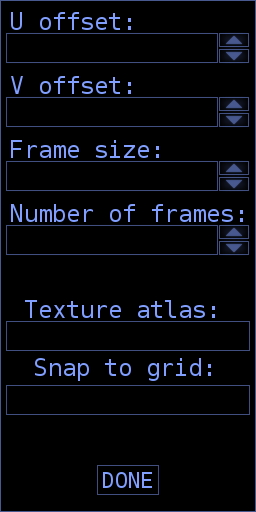
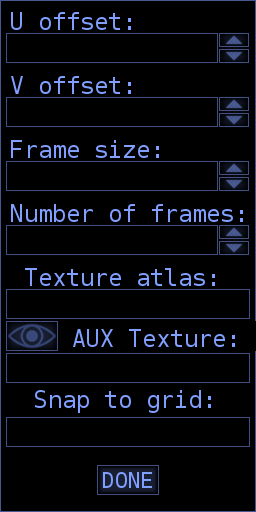
Some comments/docs, aux texture option for mrt

diff --git a/wfx.py b/wfx.py
@@ -15,6 +15,7 @@ class Wfx():
     def __init__(self,
                 num_emitters=1,
                 update_speed=60.0,
+                use_aux_texture=False,
                 physics_shader=None,
                 particle_shader=None,
                 camera=None,
@@ -26,6 +27,7 @@ class Wfx():
 
         Args:
             update_speed (float)    - how fast will the simulation run in FPS
+            use_aux_texture(bool)   - do the particles need to render to a second render target
             physics_shader(Shader)  - shader that will run the physic simulation
             particle_shader(Shader) - shader that will draw vertex as textures billbords
             camera(NodePath/Camera) - the default scene camera
@@ -35,10 +37,12 @@ class Wfx():
         """
         #setup
         self.num_emitters=num_emitters
+        self.use_aux_texture=int(use_aux_texture)
         #write the include for shaders
         with open('wfx_shaders/inc_config.glsl', 'w') as out_file:
             out_file.write('//WFX config, do not edit, it will be overriden anyway\n')
             out_file.write('#define WFX_NUM_EMITTERS '+str(num_emitters))
+            out_file.write('\n#define WFX_AUX_RENDER_TARGET '+str(self.use_aux_texture))
         self.update_speed=1.0/update_speed
         #the shader that will run the physic simulation
         self.physics_shader=Shader.load(Shader.SL_GLSL,'wfx_shaders/physics_v.glsl', 'wfx_shaders/physics_f.glsl')
@@ -72,14 +76,16 @@ class Wfx():
         self.pause=False
         self.ping_pong=None
         self.task=None
-        #update task
-        #taskMgr.add(self._update, 'wfx_update_tsk')
 
+    ###################
+    #Private functions:
+    ###################
     def _reload_shaders(self):
         #print '_reload_shaders',self.num_emitters
         with open('wfx_shaders/inc_config.glsl', 'w') as out_file:
             out_file.write('//WFX config, do not edit, it will be overriden anyway\n')
             out_file.write('#define WFX_NUM_EMITTERS '+str(self.num_emitters))
+            out_file.write('\n#define WFX_AUX_RENDER_TARGET '+str(self.use_aux_texture))
 
         physics_v=self.physics_shader.getFilename(Shader.ST_vertex)
         physics_f=self.physics_shader.getFilename(Shader.ST_fragment)
@@ -99,6 +105,54 @@ class Wfx():
         except AttributeError:
             pass
 
+    def _set_blend(self, node,  mode):
+        if mode=='dual':
+            node.setTransparency(TransparencyAttrib.MDual, 1)
+        elif mode =='add':
+            color_attrib = ColorBlendAttrib.make(ColorBlendAttrib.M_add, ColorBlendAttrib.O_incoming_alpha, ColorBlendAttrib.O_one )
+            node.setAttrib(color_attrib)
+            node.setBin("fixed", 0)
+            node.setDepthTest(True)
+            node.setDepthWrite(False)
+
+    def _make_points(self, num_points):
+        #print '_make_points', num_points
+        if num_points>1:
+            aformat = GeomVertexArrayFormat("vertex", 1, GeomEnums.NT_uint8, GeomEnums.C_other)
+            format = GeomVertexFormat.register_format(GeomVertexFormat(aformat))
+            vdata = GeomVertexData('abc', format, GeomEnums.UH_static)
+            vdata.set_num_rows(num_points)
+            geom = Geom(vdata)
+            p = GeomPoints(Geom.UH_static)
+            #p.add_vertex(0)
+            p.addNextVertices(num_points)
+            geom.add_primitive(p)
+            geom.set_bounds(OmniBoundingVolume())
+            geom_node = GeomNode('point')
+            geom_node.addGeom(geom)
+            point_node=render.attachNewNode(geom_node)
+        else:
+            point_node=render.attachNewNode('empty')
+        point_node.setRenderMode(RenderModeAttrib.MPoint, 1)
+        point_node.reparentTo(self.root)
+        return point_node
+
+    def _reset_window_size(self, window=None):
+        if window:
+            self.window=window
+        self.root.setShaderInput('screen_size', Vec2(self.window.getXSize(), self.window.getYSize()))
+
+    def _update(self, task):
+        dt=globalClock.getDt()
+        self.root.setShaderInput('camera_pos', base.camera.getPos(self.root))
+        if not self.pause:
+            self.ping_pong.update(dt)
+        self.root.setShaderInput('pos_tex', self.ping_pong.output)
+        return task.again
+
+    ###################
+    #Public functions:
+    ###################
     def load(self, *args, **kwargs):
         """
         Loads values needed to run the simulation.
@@ -153,6 +207,10 @@ class Wfx():
         elif needed_kwargs <= set(kwargs): #check if all the needed args are given
             #print kwargs['data']
             self.num_emitters=kwargs['data']['num_emitters']
+            if 'aux_texture' in kwargs:
+                self.use_aux_texture=1
+            else:
+                self.use_aux_texture=0
             self._reload_shaders() #make sure the inc is written!
             self.current_status=kwargs['data']['status']
             if 'forces' in kwargs['data']:
@@ -208,6 +266,8 @@ class Wfx():
             self.root.setShaderInput('props_tex', kwargs['props'])
             self.root.setShaderInput('index_offset', 0.0)
             self.root.setShaderInput('status',status)
+            if 'aux_texture' in kwargs:
+                self.root.setShaderInput('aux_texture', kwargs['aux_texture'])
             self.points_dual_blend.setShaderInput('index_offset', float(kwargs['data']['blend_index']))
 
 
@@ -221,50 +281,31 @@ class Wfx():
                 print 'arg:', arg
             print kwargs
 
-    def _set_blend(self, node,  mode):
-        if mode=='dual':
-            node.setTransparency(TransparencyAttrib.MDual, 1)
-        elif mode =='add':
-            color_attrib = ColorBlendAttrib.make(ColorBlendAttrib.M_add, ColorBlendAttrib.O_incoming_alpha, ColorBlendAttrib.O_one )
-            node.setAttrib(color_attrib)
-            node.setBin("fixed", 0)
-            node.setDepthTest(True)
-            node.setDepthWrite(False)
-
-    def _make_points(self, num_points):
-        #print '_make_points', num_points
-        if num_points>1:
-            aformat = GeomVertexArrayFormat("vertex", 1, GeomEnums.NT_uint8, GeomEnums.C_other)
-            format = GeomVertexFormat.register_format(GeomVertexFormat(aformat))
-            vdata = GeomVertexData('abc', format, GeomEnums.UH_static)
-            vdata.set_num_rows(num_points)
-            geom = Geom(vdata)
-            p = GeomPoints(Geom.UH_static)
-            #p.add_vertex(0)
-            p.addNextVertices(num_points)
-            geom.add_primitive(p)
-            geom.set_bounds(OmniBoundingVolume())
-            geom_node = GeomNode('point')
-            geom_node.addGeom(geom)
-            point_node=render.attachNewNode(geom_node)
-        else:
-            point_node=render.attachNewNode('empty')
-        point_node.setRenderMode(RenderModeAttrib.MPoint, 1)
-        point_node.reparentTo(self.root)
-        return point_node
-
     def start(self):
+        """
+        Starts the particle system, call this after calling load()
+        """
         self.root.show()
         if self.task is None:
             self.task=taskMgr.add(self._update, 'wfx_update_tsk')
 
     def set_pause(self):
+        """
+        Pauses the particle system without hiding anything, use this for 'time stop'
+        ..or just set self.pause to True
+        """
         self.pause = not self.pause
 
     def restart(self):
+        """
+        Restarts the whole system to the initial value (after load() was called)
+        """
         self.ping_pong.state=0
 
     def reset(self):
+        """
+        Resets the system, removes all values set by load()
+        """
         taskMgr.remove(self.task)
         self.points_dual_blend.removeNode()
         self.points_add_blend.removeNode()
@@ -272,24 +313,28 @@ class Wfx():
         self.ping_pong=None
 
     def cleanup(self):
+        """
+        Removes everything, call this when you now longer need the particle system
+        """
         self.reset()
         self.physics_shader=None
         self.particle_shader=None
         self.root=None
         self.window=None
 
-    def _reset_window_size(self, window=None):
-        if window:
-            self.window=window
-        self.root.setShaderInput('screen_size', Vec2(self.window.getXSize(), self.window.getYSize()))
-
     def set_global_force(self, force):
+        """
+        Sets a force affecting all particles, force should be vector in world space (list/tuple will also work)
+        """
         try:
             self.ping_pong.setShaderInput('global_force', Vec4(force[0], force[1], force[2], 0.0))
         except AttributeError:
             pass
 
     def set_emitter_force(self, emitter_id, force):
+        """
+        Sets a local force affecting all particles with a given emitter_id
+        """
         try:
             status=PTA_LVecBase4f()
             for i in range(self.num_emitters):
@@ -312,6 +357,9 @@ class Wfx():
             pass
 
     def set_emitter_active(self, emitter_id, active):
+        """
+        Turns on (active=1) or off (active=0) all the particles with a given emitter_id
+        """
         try:
             status=PTA_LVecBase4f()
             for i in range(self.num_emitters):
@@ -332,26 +380,40 @@ class Wfx():
             pass
 
     def set_emitter_on(self, emitter_id):
+        """
+        Turns on all the particles with a given emitter_id
+        """
         self.set_emitter_active(emitter_id, 1.0)
 
     def set_emitter_off(self, emitter_id):
+        """
+        Turns off all the particles with a given emitter_id
+        """
         self.set_emitter_active(emitter_id, 0.0)
 
     def set_emitter_node(self, emitter_id, node):
+        """
+        Links a node with a emitter_id.
+
+        When the node moves or rotates, then the origin of particles
+        with that emitter_id moves or rotates with it.
+        """
         self.ping_pong.emitters[emitter_id]=node
 
-    def _update(self, task):
-        dt=globalClock.getDt()
-        self.root.setShaderInput('camera_pos', base.camera.getPos(self.root))
-        if not self.pause:
-            self.ping_pong.update(dt)
-        self.root.setShaderInput('pos_tex', self.ping_pong.output)
-        return task.again
-
+    def on_window_resize(self):
+        """
+        Call this function each time the window changes its size!
+        """
+        self._reset_window_size()
 
 
 
 class BufferRotator():
+    """
+    This is a helper class that switches between 3 texture buffers,
+    where each buffer is in turn the output or one of the inputs.
+    You don't need to do anything with this class.
+    """
     def __init__(self, shader, tex0, tex1, shader_inputs={}, emitters=None, bits=32, update_speed=None):
         #upadate speed - how often is the who thing run
         if update_speed:
@@ -560,7 +622,6 @@ class BufferRotator():
         self.texC=None
         self.output=None
         self.emitters=None
-
 
     def update(self, dt):
         self.time+=dt

diff --git a/editor.py b/editor.py
@@ -2,6 +2,8 @@ from __future__ import print_function
 from panda3d.core import loadPrcFileData
 loadPrcFileData('', 'textures-power-2 None')
 loadPrcFileData('', 'win-size 1024 768')
+loadPrcFileData('', 'show-frame-rate-meter 1')
+loadPrcFileData('', 'sync-video 0')
 from panda3d.core import *
 from direct.showbase.DirectObject import DirectObject
 from direct.showbase import ShowBase
@@ -29,6 +31,11 @@ class Editor(DirectObject):
 
         #init the GUI sub system
         self.gui=GUI()
+
+        #put the frame metter at the bottom
+        self.fps_node=NodePath(base.frameRateMeter)
+        self.fps_node.wrtReparentTo(self.gui.bottom_right)
+        self.fps_node.setPos(0, 0, 20)
 
         #text for the help popups
         self.help_txt=["Particle Pool is the number of available particles, and it's also the size of the texture used internally. The value will be rounded to the nearest a power-of-two size.",
@@ -401,6 +408,33 @@ class Editor(DirectObject):
             return
         self.tex_preview_frame['frameTexture']=self.texture
 
+    def load_aux_tex_atlas(self, value=None):
+        if self.values['particle_left'][0]+self.values['particle_left'][1]<self.values['particle_pool']:
+            self.gui.popup("You can only change the texture atlas befor generating any particles!")
+            return
+        path=self.tex_entry_aux.get()
+        if path=='':
+            self.gui.popup("AUX Texture has been disabled.")
+            self.tex_preview_frame['frameTexture']=self.texture
+            self.aux_texture=None
+            return
+        try:
+            self.aux_texture=loader.loadTexture(path)
+            self.tex_preview_frame['frameTexture']=self.aux_texture
+            self.gui.popup("AUX Texture loaded! To disable it enter an empty string and press [Enter], use the eye button to toggle aux and color texture preview.\nThe Aux Texture can provide material information or data for post-processing, custom shaders are needed!")
+        except:
+            self.gui.popup("AUX Texture has been disabled, could not load texture: "+path)
+            self.tex_preview_frame['frameTexture']=self.texture
+            self.aux_texture=None
+            return
+
+    def preview_aux_texture(self):
+        if self.aux_texture:
+            if self.tex_preview_frame['frameTexture'] == self.aux_texture:
+                self.tex_preview_frame['frameTexture']=self.texture
+            else:
+                self.tex_preview_frame['frameTexture']=self.aux_texture
+
     def set_tex_select_snap(self, value=None):
         self.tex_select_frame.snap=self.exe(self.tex_entry_snap.get(), expect_float=True)
 
@@ -465,8 +499,9 @@ class Editor(DirectObject):
             self.tex_entry_v=self.gui.entry('1.0', (210, 32), (7,96), self.tex_frame, command=self.update_tex_select)
             self.tex_entry_size=self.gui.entry('0.0625', (210, 32), (7,160), self.tex_frame, command=self.update_tex_select)
             self.tex_entry_num=self.gui.entry('1.0', (210, 32), (7,224), self.tex_frame, command=self.update_tex_select)
-            self.tex_entry_path=self.gui.entry('tex/atlas1.png', (242, 32), (7,320), self.tex_frame, command=self.load_tex_atlas)
-            self.tex_entry_snap=self.gui.entry('1.0/16.0', (242, 32), (7,383), self.tex_frame, command=self.set_tex_select_snap)
+            self.tex_entry_path=self.gui.entry('tex/atlas1.png', (242, 32), (7,288), self.tex_frame, command=self.load_tex_atlas)
+            self.tex_entry_aux=self.gui.entry('', (242, 32), (7,352), self.tex_frame, command=self.load_aux_tex_atlas)
+            self.tex_entry_snap=self.gui.entry('1.0/16.0', (242, 32), (7,416), self.tex_frame, command=self.set_tex_select_snap)
 
             self.tex_u_plus=self.gui.button('editor/ui/highlight_3.png', (218, 32), self.tex_frame, self.tex_u_plus, repeat=0.2)
             self.tex_u_minus=self.gui.button('editor/ui/highlight_3.png', (218, 48), self.tex_frame, self.tex_u_minus, repeat=0.2)
@@ -480,6 +515,8 @@ class Editor(DirectObject):
             self.tex_num_plus=self.gui.button('editor/ui/highlight_3.png', (218, 224), self.tex_frame, self.tex_num_plus, repeat=0.2)
             self.tex_num_minus=self.gui.button('editor/ui/highlight_3.png', (218, 240), self.tex_frame, self.tex_num_minus, repeat=0.2)
             self.tex_done_button=self.gui.button('editor/ui/highlight_2.png', (96, 464), self.tex_frame, self.hide_tex_editor)
+
+            self.tex_aux_preview_button=self.gui.button('editor/ui/highlight_9.png', (0, 320), self.tex_frame, self.preview_aux_texture)
 
 
     def freq_plus(self):
@@ -667,6 +704,7 @@ class Editor(DirectObject):
             self.props_pfm=PfmGen(x,y, offset)
             self.texture=loader.loadTexture('tex/atlas1.png')
             self.tex_offset=Vec4(0.0, 1.0, 0.0625, 1.0)
+            self.aux_texture=None
             #print self.values
         else:
             self.gui.popup(error_msg)
